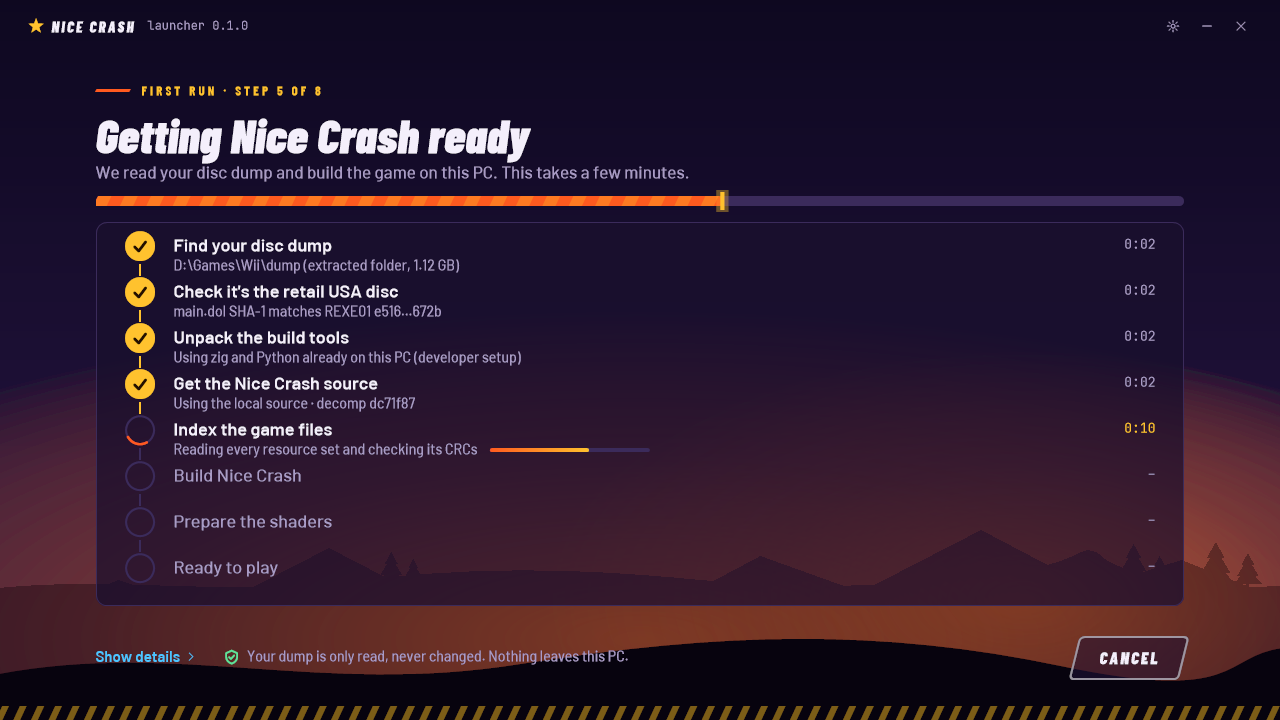
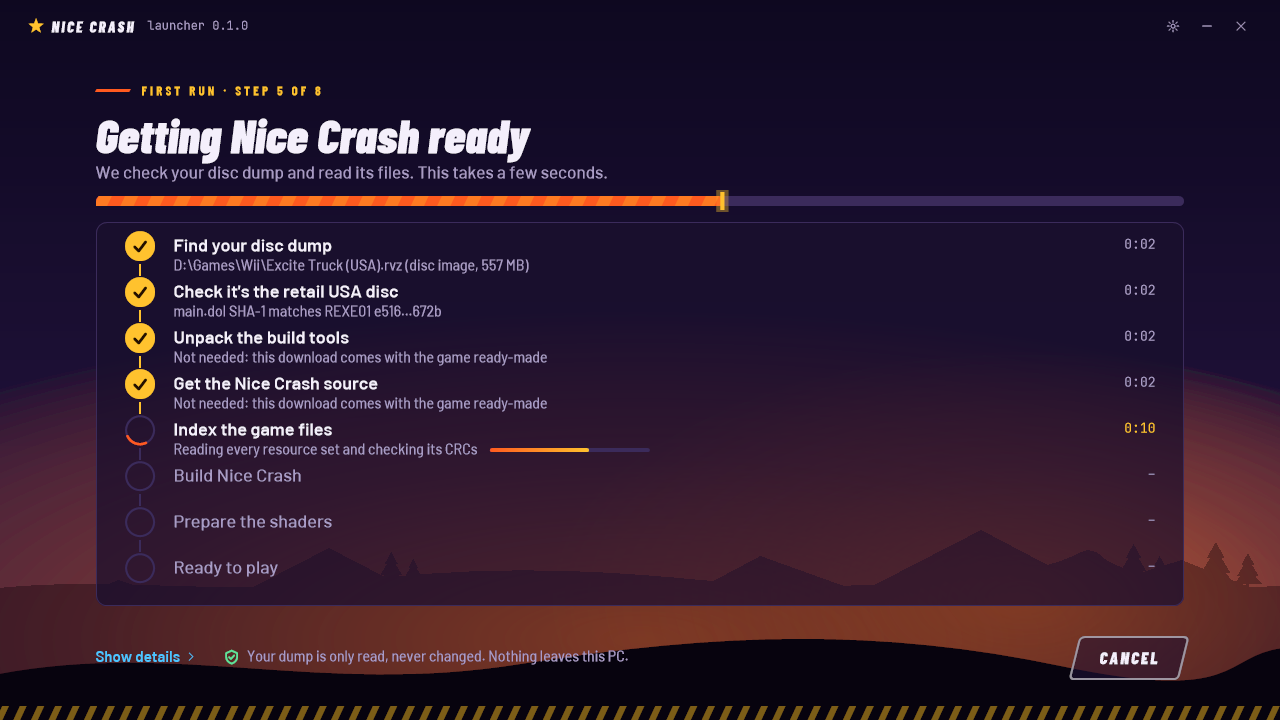
Release v0.2 preview: README, notes and version for the ready-made download
- README: first run is about a minute and compiles nothing; "What's in the
  download" replaces "Why the game is built on your PC"; ~1 GB free.
- docs/images/launcher-first-run.png: the ready-made first run (the --ui-shot
  demo checklist now shows it: disc image, tools and source steps skipped).
- docs/releases/v0.2-preview.md: the GitHub release text.
- docs/TESTER_PACKAGE.md: --prebuilt is how releases are made now.
- Version 0.2.0 (launcher and game); .recomp.json notes.

diff --git a/host/src/launcher/launcher.cpp b/host/src/launcher/launcher.cpp
@@ -697,20 +697,23 @@ void MakeShortcuts() {
 tasks::Checklist DemoChecklist() {
     tasks::Checklist c;
     c.title = L"Getting Nice Crash ready";
-    c.sub = L"We read your disc dump and build the game on this PC. This takes a few minutes.";
+    // The ready-made download's first run (make_package.py --prebuilt), for the README screenshot.
+    c.sub = L"We check your disc dump and read its files. This takes a few seconds.";
     c.running = true;
     double n = GetTickCount64() / 1000.0;
     const wchar_t* t[] = {L"Find your disc dump", L"Check it's the retail USA disc", L"Unpack the build tools",
                           L"Get the Nice Crash source", L"Index the game files", L"Build Nice Crash",
                           L"Prepare the shaders", L"Ready to play"};
-    const wchar_t* d[] = {L"D:\\Games\\Wii\\dump (extracted folder, 1.12 GB)", L"main.dol SHA-1 matches REXE01 e516\u2026672b",
-                          L"Using zig and Python already on this PC (developer setup)", L"Using the local source \u00B7 decomp dc71f87",
+    const wchar_t* d[] = {L"D:\\Games\\Wii\\Excite Truck (USA).rvz (disc image, 557 MB)",
+                          L"main.dol SHA-1 matches REXE01 e516\u2026672b",
+                          L"Not needed: this download comes with the game ready-made",
+                          L"Not needed: this download comes with the game ready-made",
                           L"Reading every resource set and checking its CRCs", L"", L"", L""};
     for (int i = 0; i < 8; i++) {
         tasks::Step s;
         s.title = t[i];
         s.detail = d[i];
-        s.state = i < 4 ? tasks::DONE : i == 4 ? tasks::ACTIVE : tasks::PENDING;
+        s.state = i < 2 ? tasks::DONE : i < 4 ? tasks::SKIPPED : i == 4 ? tasks::ACTIVE : tasks::PENDING;
         s.t0 = n - 18 + i * 2;
         s.t1 = n - 16 + i * 2;
         if (i == 4) s.progress = 0.62f;

diff --git a/lib/project.h b/lib/project.h
@@ -14,8 +14,8 @@
 #define PROJECT_DIRNAME "NiceCrash"
 
 // Versions shown by the launcher (title bar, Home, About, bug reports).
-#define LAUNCHER_VERSION "0.1.0"
-#define NICECRASH_VERSION "0.1.0"
+#define LAUNCHER_VERSION "0.2.0"
+#define NICECRASH_VERSION "0.2.0"
 
 // Flip to 1 at the first release known to work end to end. Until then "Save error logs" (launcher.error_log)
 // defaults to on; after it, new installs default to off and a player's own choice is kept (settings.ini stores

diff --git a/README.md b/README.md
@@ -16,16 +16,17 @@ Bring your own disc: **no game files are included**. Everything is read from you
   A plain `.nkit.iso` works too; if the launcher says an NKit image can't be read, convert it with Dolphin
   (right-click the game > Convert File > ISO or RVZ) and pick that file. Other regions don't work yet;
 - Windows 10 or 11 (64-bit) with any graphics card or laptop graphics from the last ten years (OpenGL 3.0);
-- about 2 GB of free disk space;
+- about 1 GB of free disk space;
 - a game controller (Xbox-style) or the keyboard.
 
-**First run** (5 to 15 minutes, once)
+**First run** (about a minute, once)
 1. Download the latest zip from **[Releases](https://github.com/ablindingnight/nice-crash/releases)** and unzip it
    somewhere with a short path, e.g. `C:\Games\NiceCrash`.
 2. Double-click **Start Nice Crash.cmd**. If Windows SmartScreen warns about an unrecognised app, click
    *More info* > *Run anyway*.
 3. Drag your disc image (or extracted folder) onto the launcher, or pick it.
-4. The launcher checks it's the retail USA disc, unpacks it and builds the game on your PC. Leave it open.
+4. The launcher checks it's the retail USA disc, unpacks it and indexes its files. The game comes ready-made: nothing
+   is compiled on your PC.
 
 ![First run: getting Nice Crash ready](docs/images/launcher-first-run.png)
 
@@ -41,10 +42,12 @@ Shift+Up/Down lean, Space = A, Enter = HOME menu. A gamepad works too, and every
 **If something goes wrong**: the launcher's **Logs** page lists every run, and *Save report* makes a folder with the log
 and your settings (your user name is removed). Nothing is ever sent anywhere.
 
-## Why the game is built on your PC
-The download contains no Nintendo data. Some of the game's tables come from your own disc's `main.dol`, so the
-launcher builds the game exe on your PC from the open source here plus your disc, with a bundled compiler. (Planned:
-load those tables at run time instead, so a ready-made exe can ship and the first run takes seconds.)
+## What's in the download
+The launcher, the game (`NiceCrashGame.exe`, compiled from the decompilation and the port source here), a disc-image
+reader ([dtk](https://github.com/encounter/decomp-toolkit)) and an optional AI upscaler for *Enhance my game*. **No
+Nintendo data**: the game's own data tables are read from your disc's `main.dol` when the game starts, never compiled
+in, and every release is scanned for anything from the disc or `main.dol` (`tools/package/scan_package.py`) before
+it's uploaded. `build/build_info.txt` names the exact port and decomp commits the game was made from.
 
 ## Licence
 CC0 1.0 (public domain), the same as the decompilation. The launcher's art (star, tilt ring, truck) is our own.

diff --git a/docs/releases/v0.2-preview.md b/docs/releases/v0.2-preview.md
@@ -1,0 +1,34 @@
+**Nice Crash v0.2 preview**: an unofficial native PC port of Excite Truck (Wii), built from the
+[matching decompilation](https://github.com/ablindingnight/excite-truck).
+
+**No game files are included.** You need your own Excite Truck disc (USA, REXE01) dumped from your Wii
+(.iso, .rvz, .wbfs, .wia, .gcz, .ciso, a plain .nkit.iso, or a Dolphin-extracted folder).
+
+### What's new since v0.1
+- **The game comes ready-made.** No compiler or Python in the download and no build on your PC: the first run
+  checks your disc and reads its files in about a minute. The download is 41 MB instead of 156 MB. The game reads
+  its data tables from your own disc when it starts, so the download still holds no game data (every release is
+  scanned for that before it goes up).
+- **NKit images**: a plain `.nkit.iso` is read directly. If one can't be read, the launcher tells you how to
+  convert it with Dolphin (right-click > Convert File > ISO or RVZ).
+- **Custom soundtrack**: the game's SD-card MP3 player plays your own MP3s from `Music\Nice Crash` (an
+  `EXCITE TRUCK` subfolder first, like the SD card; another folder can be set in Settings). Choose it in the game's
+  Options > Track Music.
+- **Smoother menus and HUD**: a live "Sharp" upscale (the default) and an AI texture step under *Enhance my game*.
+- **Truck paint reflections** are smooth now (no blocky paint).
+- **Sharpen videos** setting on the launcher's Graphics page.
+
+### How to play
+1. Download `NiceCrash-<date>-<commit>.zip` below and unzip it somewhere with a short path, e.g. `C:\Games\NiceCrash`.
+2. Double-click **Start Nice Crash.cmd** (SmartScreen: *More info* > *Run anyway*).
+3. Drag your disc image onto the launcher. It checks it's the retail USA disc and reads its files.
+4. Press **PLAY**.
+
+Coming from v0.1: unzip into a new folder. Your saves, settings and unpacked disc live outside it
+(`%LOCALAPPDATA%\NiceCrash`, `%USERPROFILE%\Games\Nice Crash`), so they carry over; the old folder can be deleted.
+
+Windows 10/11 64-bit, OpenGL 3.0 graphics, about 1 GB free. Keyboard: `2` accelerate, `1` brake, arrows/A-D steer,
+Up turbo, Enter = HOME menu. Gamepads work too.
+
+Still an early preview: expect rough edges. The launcher's **Logs > Save report** makes a folder you can share if
+something breaks (nothing is sent anywhere). Not affiliated with or endorsed by Nintendo or Monster Games.

diff --git a/docs/TESTER_PACKAGE.md b/docs/TESTER_PACKAGE.md
@@ -5,10 +5,21 @@ A copy of Nice Crash someone else can run on their own Windows PC with their own
 
 ## The rule
 
-The package contains **no Nintendo data**: no disc files, no `main.dol`, nothing generated from them. That is why the
-game exe is not shipped. `tools/gametrial/link.py` builds `NiceCrashGame.exe` with DUMP_DATA tables made from the
-player's own `main.dol` (`prep.py` → the decomp's `tools/datagen.py`), and reads it again to recognise retail vtables.
-So the tester's PC imports **their** disc and builds the game itself, with the bundled toolchain.
+The package contains **no Nintendo data**: no disc files, no `main.dol`, nothing generated from them.
+
+**Since 2026-11-23 releases ship the game ready-made** (`make_package.py --prebuilt --dol <main.dol> --disc <DATA>
+--zip`): the decomp's DUMP_DATA tables and the MP3 decoder's tables are views of the retail data at its Wii address,
+read from the player's `main.dol` at start-up (`tools/gametrial/dumptables.py`, `runtime/dolload.cpp`), so
+`NiceCrashGame.exe` holds none of it. The package is the launcher, importer, enhance.exe, the game exe,
+`build_info.txt` (port commit, decomp pin), `build/fonts`, dtk, the optional upscaler and `LICENSES` (plus the
+runtime libraries zig links in: libc++/libc++abi/libunwind, mingw-w64's CRT, compiler_rt); no source, zig or Python.
+The tester's readme is `README_PREBUILT.txt`. First run: find → verify → index (seconds), no build. Zip 41 MB with the
+upscaler (~16 MB unpacked without it). Clean-profile test 2026-11-23: `--setup` from a `.nkit.iso` in 3.7 s, then the
+packaged game off-screen to the save prompt, Create Profile and the name keyboard. The scan (check 3) now also
+reads our exes in host byte order and fails on any generated-table run; the old exe fails it.
+
+The rest of this page describes the earlier **source package** (no `--prebuilt`), which is still made the same way:
+`tools/gametrial/link.py` builds `NiceCrashGame.exe` on the tester's PC with the bundled toolchain.
 
 `make_package.py` ends with `tools/package/scan_package.py`, and refuses the package if the scan finds anything:
 
